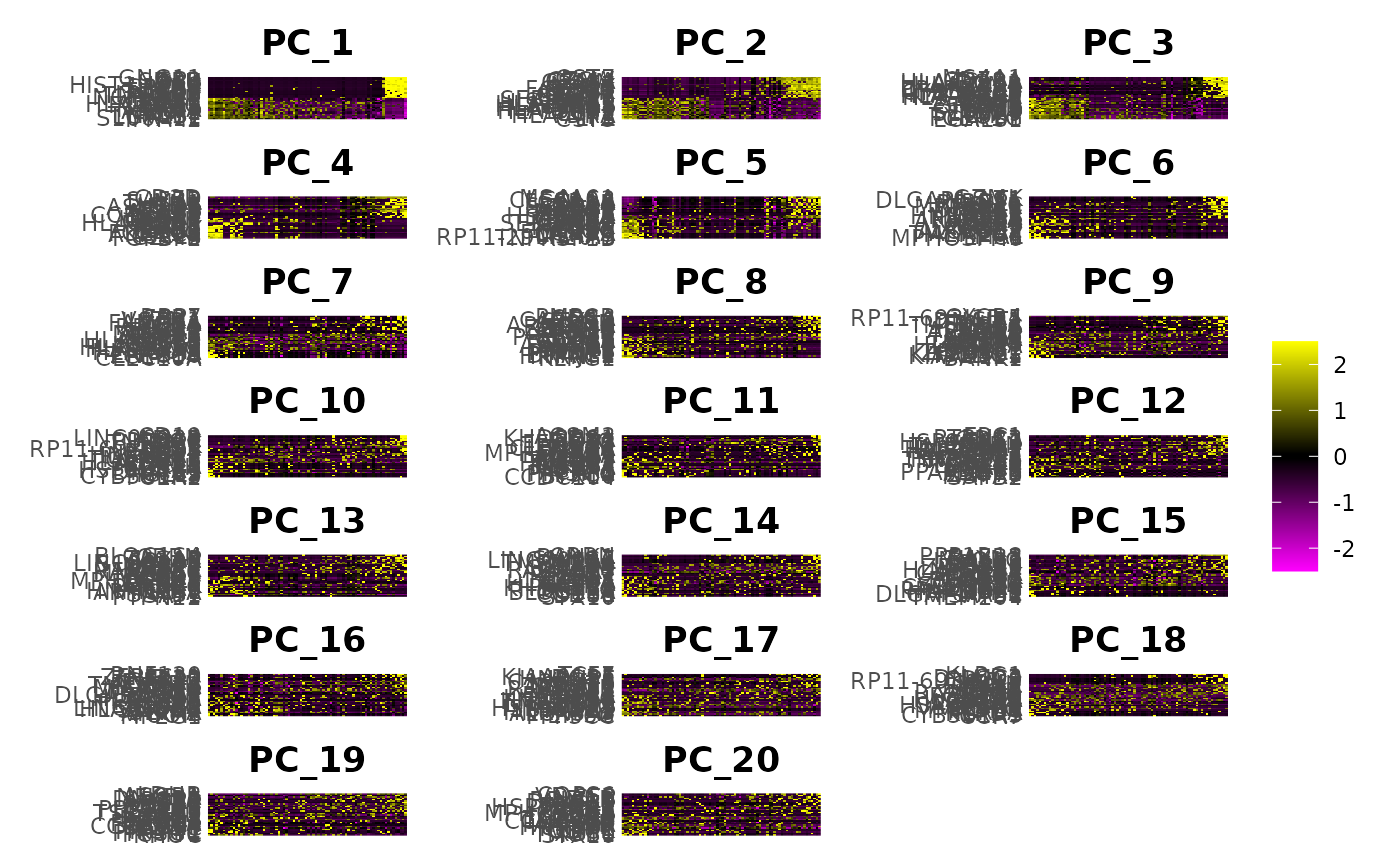
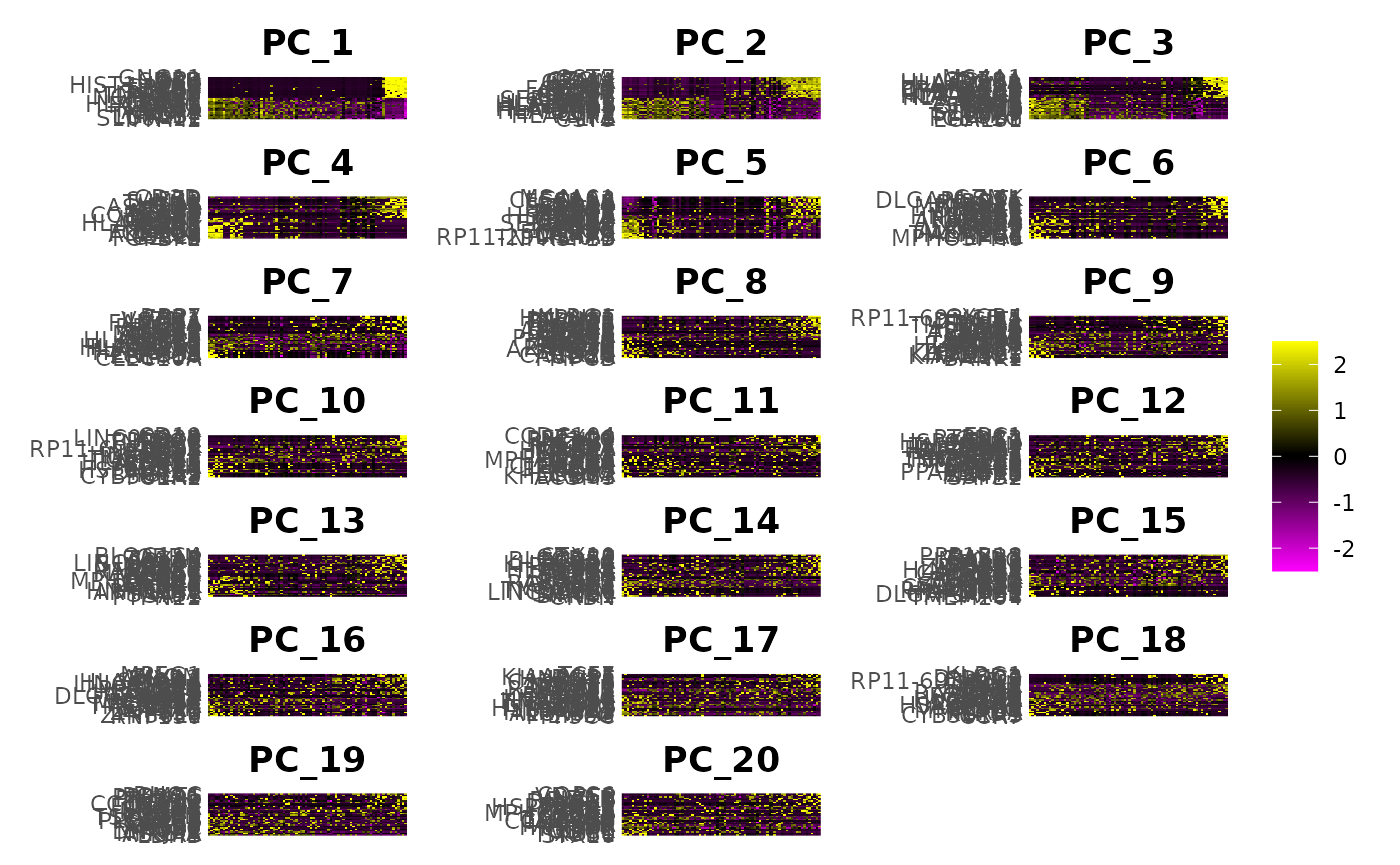
Built site for CellMembrane@1.0.0: a1febf1

diff --git a/articles/CellMembrane-Tutorial.html b/articles/CellMembrane-Tutorial.html
@@ -81,7 +81,7 @@
                         <h4 data-toc-skip class="author">GW
 McElfresh</h4>
             
-            <h4 data-toc-skip class="date">2026-05-10</h4>
+            <h4 data-toc-skip class="date">2026-05-21</h4>
       
       <small class="dont-index">Source: <a href="https://github.com/BimberLabInternal/CellMembrane/blob/master/vignettes/CellMembrane-Tutorial.Rmd" class="external-link"><code>vignettes/CellMembrane-Tutorial.Rmd</code></a></small>
       <div class="hidden name"><code>CellMembrane-Tutorial.Rmd</code></div>

diff --git a/articles/Pseudobulking-and-Filtered-Contrasts.html b/articles/Pseudobulking-and-Filtered-Contrasts.html
@@ -81,7 +81,7 @@
                         <h4 data-toc-skip class="author">GW
 McElfresh</h4>
             
-            <h4 data-toc-skip class="date">2026-05-10</h4>
+            <h4 data-toc-skip class="date">2026-05-21</h4>
       
       <small class="dont-index">Source: <a href="https://github.com/BimberLabInternal/CellMembrane/blob/master/vignettes/Pseudobulking-and-Filtered-Contrasts.Rmd" class="external-link"><code>vignettes/Pseudobulking-and-Filtered-Contrasts.Rmd</code></a></small>
       <div class="hidden name"><code>Pseudobulking-and-Filtered-Contrasts.Rmd</code></div>